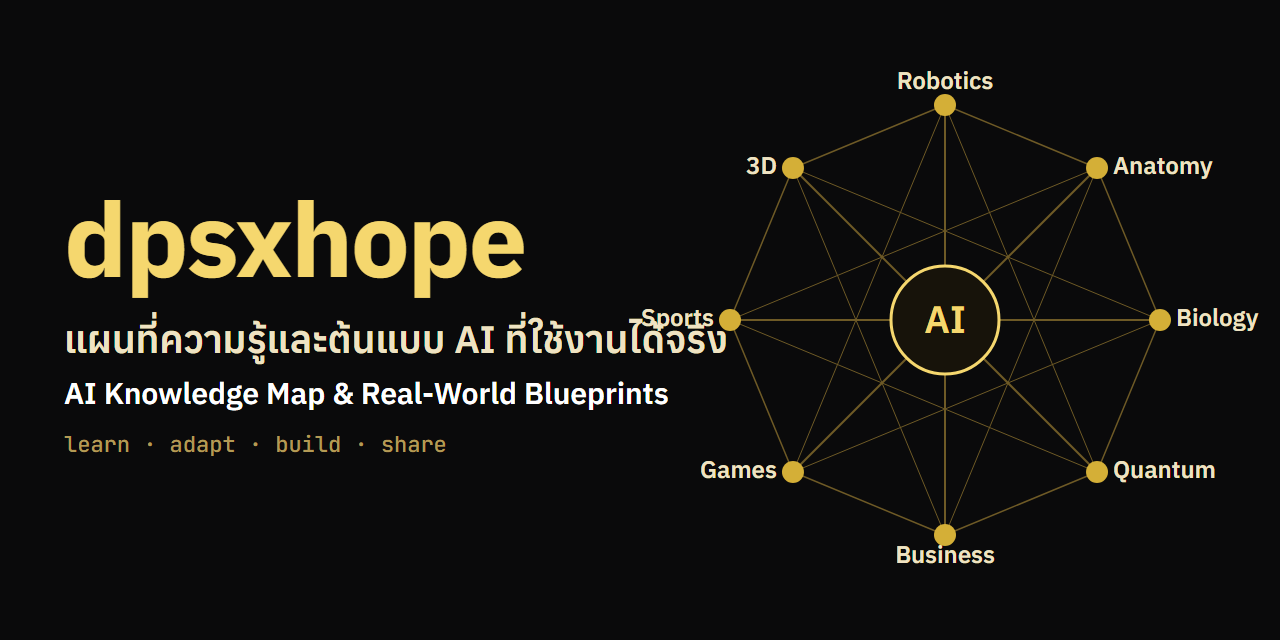
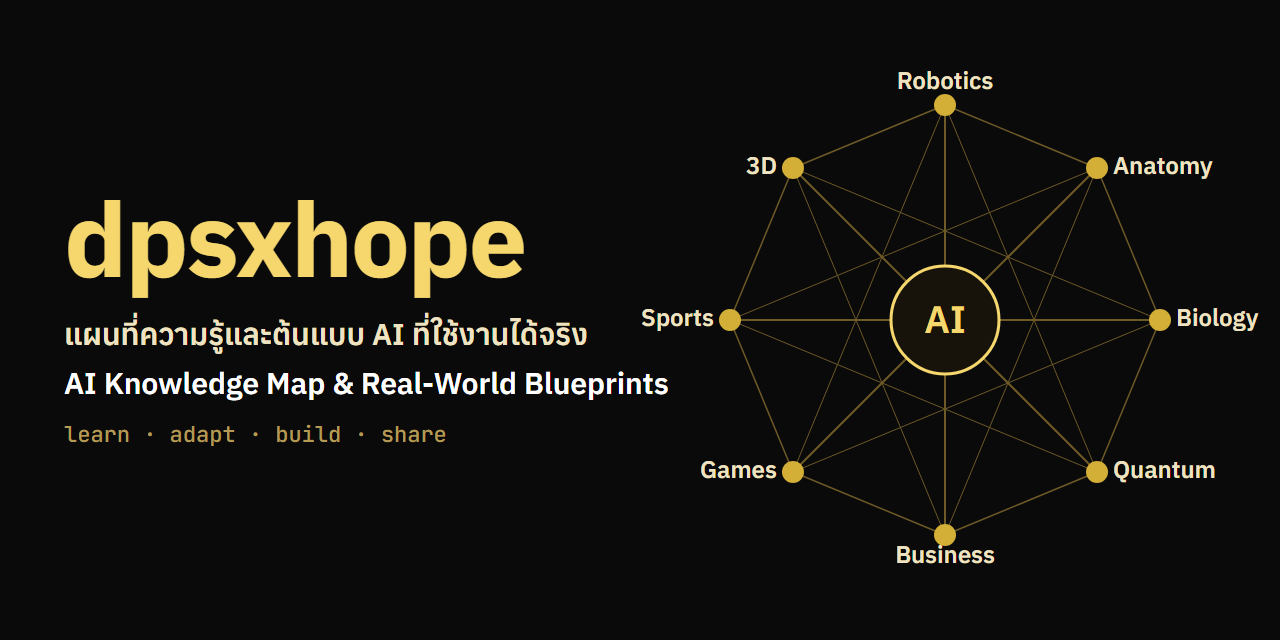
fix: keep social preview tagline clear of the map

Changed region(s): [[0.0312, 0.5, 0.5625, 0.7188]]

diff --git a/assets/banner/banner.html b/assets/banner/banner.html
@@ -40,7 +40,7 @@
   copy.style.top = (social ? 186 : 58) + 'px';
   copy.querySelector('h1').style.fontSize = (social ? 104 : 80) + 'px';
   const tag = copy.querySelector('.tag');
-  tag.style.fontSize = (social ? 38 : 30) + 'px';
+  tag.style.fontSize = '30px';
   tag.style.marginTop = (social ? 24 : 16) + 'px';
   const en = copy.querySelector('.en');
   en.style.fontSize = (social ? 30 : 24) + 'px';
